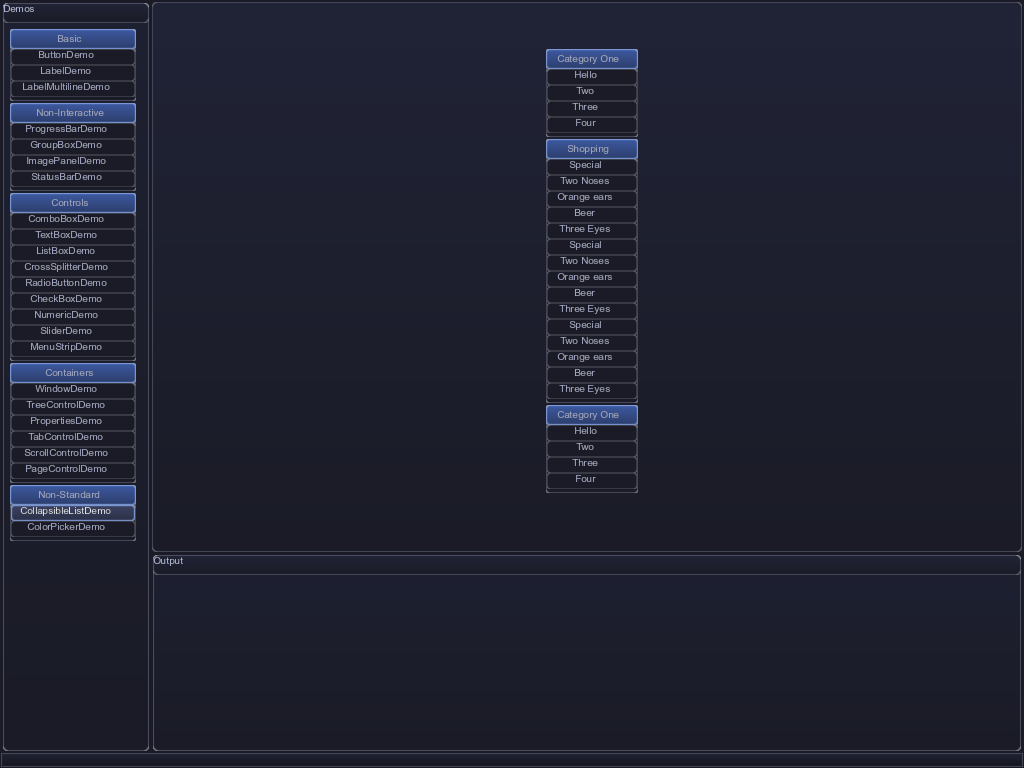
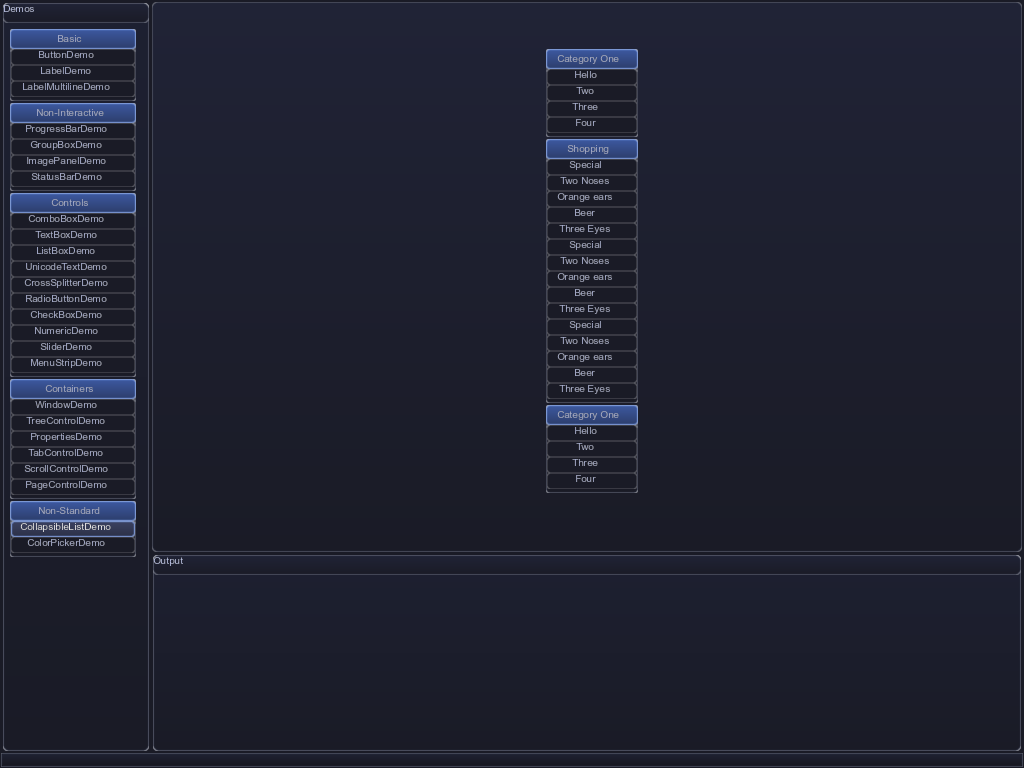
docs: ListBoxDemo back in the samples gallery, and how to run ctest
ListBoxDemo is reproducible again (#70, #94 fixed, CJK cell gone), so it
returns to capture_samples.sh and README.md. demo.png is regenerated too:
its sidebar lacked the UnicodeTextDemo entry added in 882cf6c.

AGENTS.md no longer says there is no test suite; a Tests section covers
ctest, the gpu label, the GPU lock and GWENI_BUILD_TESTS.

Changed region(s): [[0.0, 0.3438, 0.1562, 0.7188]]

diff --git a/AGENTS.md b/AGENTS.md
@@ -6,7 +6,7 @@ This file provides guidance to Claude Code (claude.ai/code) when working with co
 
 gweni ("GUI Without Extravagant Nonsense") is a C++17 retained-mode GUI library, forked from Garry Newman's **GWEN** (MIT) and reworked to be OpenGL-aware. The core idea separating it from GWEN: instead of redrawing every widget each frame in immediate mode, controls allocate persistent renderer **primitives** and only regenerate/update them when their state actually changes. The long-term goal is good performance on modern OpenGL (3.0+ core profile) and eventually Vulkan.
 
-The library builds as a static/object library plus example executables. There is no test suite.
+The library builds as a static/object library plus example executables. Tests are run with CTest (see "Tests" under "Building").
 
 ## Building
 
@@ -79,13 +79,25 @@ The sample PNGs under `docs/images/` (embedded by `README.md`) are checked in an
 
 It captures the hero demo (`OpenGLCore --demo`) and the gallery controls (`ControlTest --control`) offscreen, so no display is needed: it uses `xvfb-run` when the image has it and otherwise the examples' own surfaceless-EGL path. The sample list at the top of the script is the interface — edit it to change the set, and update the gallery table in `README.md` to match, since it embeds each PNG by path. Re-running on an unchanged tree produces byte-identical PNGs.
 
+### Tests
+
+The test suite is CTest, under `tests/`. After `cmake --build`, from the repo root:
+
+```bash
+ctest --test-dir build_linux_x64_debug            # everything
+ctest --test-dir build_linux_x64_debug -L gpu     # only the tests that need a GL context
+ctest --test-dir build_linux_x64_debug -LE gpu    # only the ones that don't (may be "no tests")
+```
+
+Tests labelled `gpu` run the examples headless (`--headless`, the surfaceless-EGL path), so an agent holds the GPU lock around `ctest` (`mm run --lock gpu -- ctest ...`), as for any ControlTest capture. `controltest_determinism` (`tests/determinism.cmake`) runs `ControlTest --shot-all --dump-bounds` in two separate processes and fails, naming each file, if any PNG or `.txt` listing differs between them. A demo that is known to differ is marked out in that script's `EXCLUDED_DEMOS` with its issue number. `controltest_teardown` runs `--check-teardown`. The tests are built only when `GWENI_BUILD_TESTS` is on (the default), and the ControlTest tests also need `GWENI_BUILD_EXAMPLES`.
+
 ### Dependencies / vcpkg notes
 - The active OpenGL-core build pulls `rapidjson`, `glm`, `freetype`, `glew`, `glfw3`, `libpng`, `libjpeg-turbo` (last two via the `deps/imglib` subproject). RapidJSON is header-only — CMake consumes `RAPIDJSON_INCLUDE_DIRS`, not an imported target.
 - The SDL2 backend and the Android Boost.Filesystem backend are optional vcpkg **features** (`sdl2`, `boost-filesystem`); enable with `-DVCPKG_MANIFEST_FEATURES=sdl2`.
 - The vendored `deps/freetype-gl` and `deps/imglib` are added via `add_subdirectory`; `deps/CMakeLists.txt` sets `freetype-gl_USE_HUNTER OFF` so they resolve deps through the vcpkg toolchain's standard find modules.
 
 ### Build options (CMakeLists.txt)
-`GWENI_RENDER_SDL2`, `GWENI_RENDER_OPENGL` (legacy fixed-function), `GWENI_RENDER_OPENGL_CORE` (the active modern renderer), `GWENI_BUILD_EXAMPLES`. The Linux toolchain turns SDL2 and legacy GL **off** and uses only the GL core renderer. `GWENI_RENDER_OPENGL_CORE` is what pulls in glm + freetype + the `deps/freetype-gl` and `deps/imglib` subprojects.
+`GWENI_RENDER_SDL2`, `GWENI_RENDER_OPENGL` (legacy fixed-function), `GWENI_RENDER_OPENGL_CORE` (the active modern renderer), `GWENI_BUILD_EXAMPLES`, `GWENI_BUILD_TESTS` (CTest suite under `tests/`, default on). The Linux toolchain turns SDL2 and legacy GL **off** and uses only the GL core renderer. `GWENI_RENDER_OPENGL_CORE` is what pulls in glm + freetype + the `deps/freetype-gl` and `deps/imglib` subprojects.
 
 ## Architecture
 

diff --git a/README.md b/README.md
@@ -33,6 +33,8 @@ implemented-vs-planned status, and [docs/layout.md](docs/layout.md) for the layo
 | **TabControl** | **TreeControl** |
 | ![Properties](docs/images/PropertiesDemo.png) | ![PageControl](docs/images/PageControlDemo.png) |
 | **Properties** | **PageControl** |
+| ![ListBox](docs/images/ListBoxDemo.png) | |
+| **ListBox** | |
 
 Each control is shown on its own in `ControlTest`. All of these images are rendered offscreen by
 `tools/capture_samples.sh` (see `AGENTS.md`).
